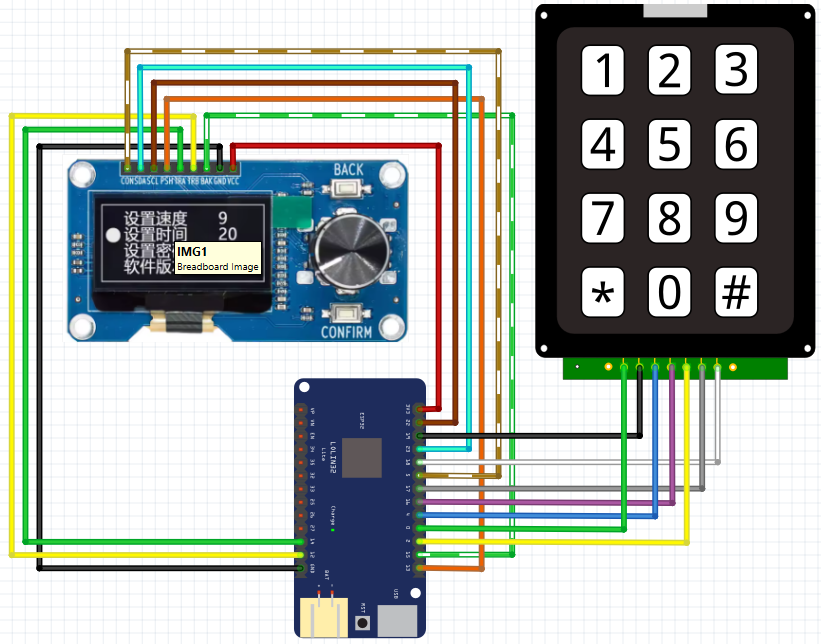
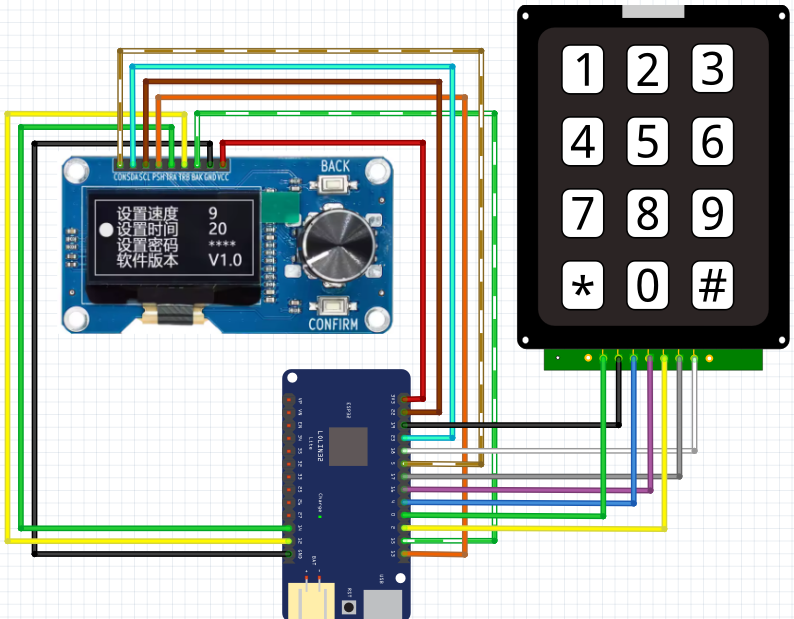
add link to github pages

diff --git a/README.md b/README.md
@@ -4,6 +4,8 @@
 
 A WiTcontroller is a simple DIY, handheld controller that talks to a WiThrottle Server (JMRI, DCC-EX EX-CommandStation, Digitrax LnWi and many others) using the WiThrottle protocol to control DCC model trains.
 
+([A clean web page version of this readme is available here.](https://flash62au.github.io/WiTcontroller/))
+
 > [See full change log/ version history](change_log.md)
 
 ---
